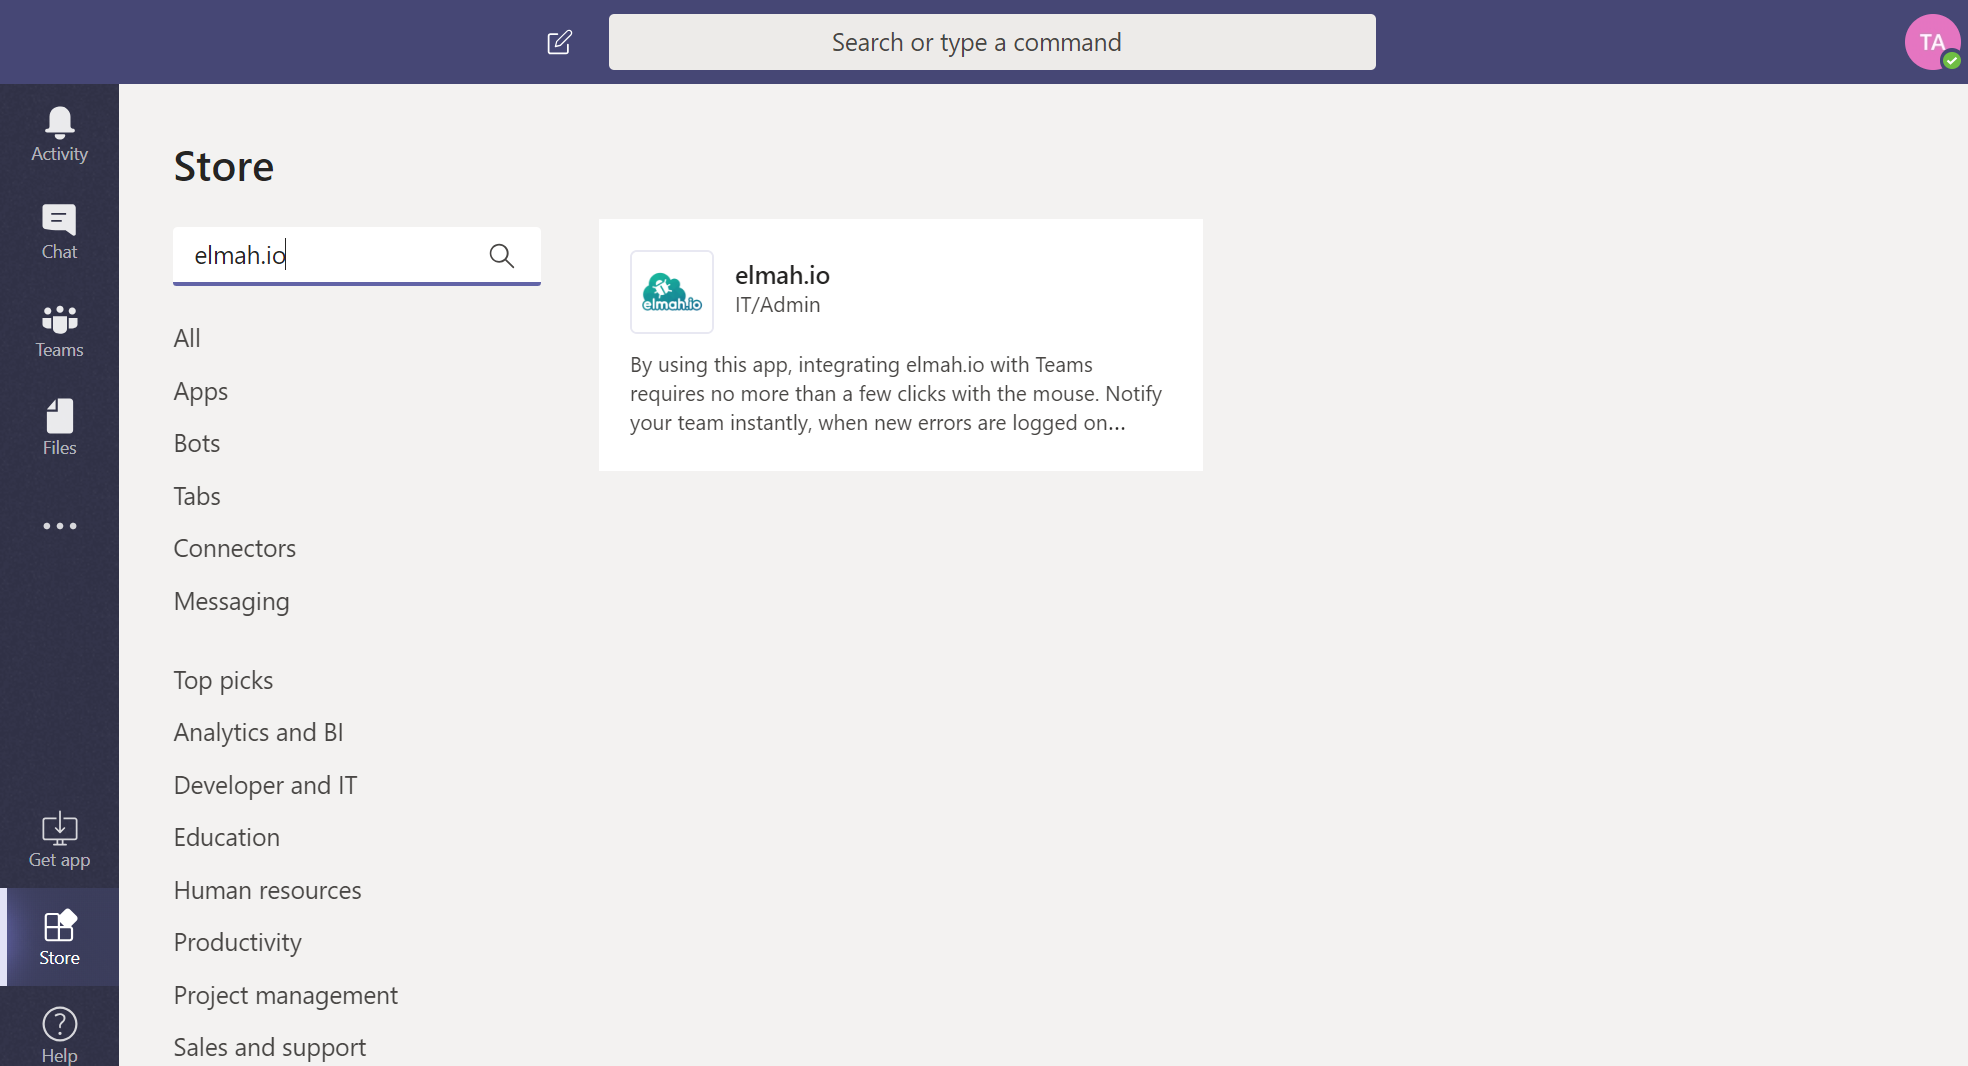
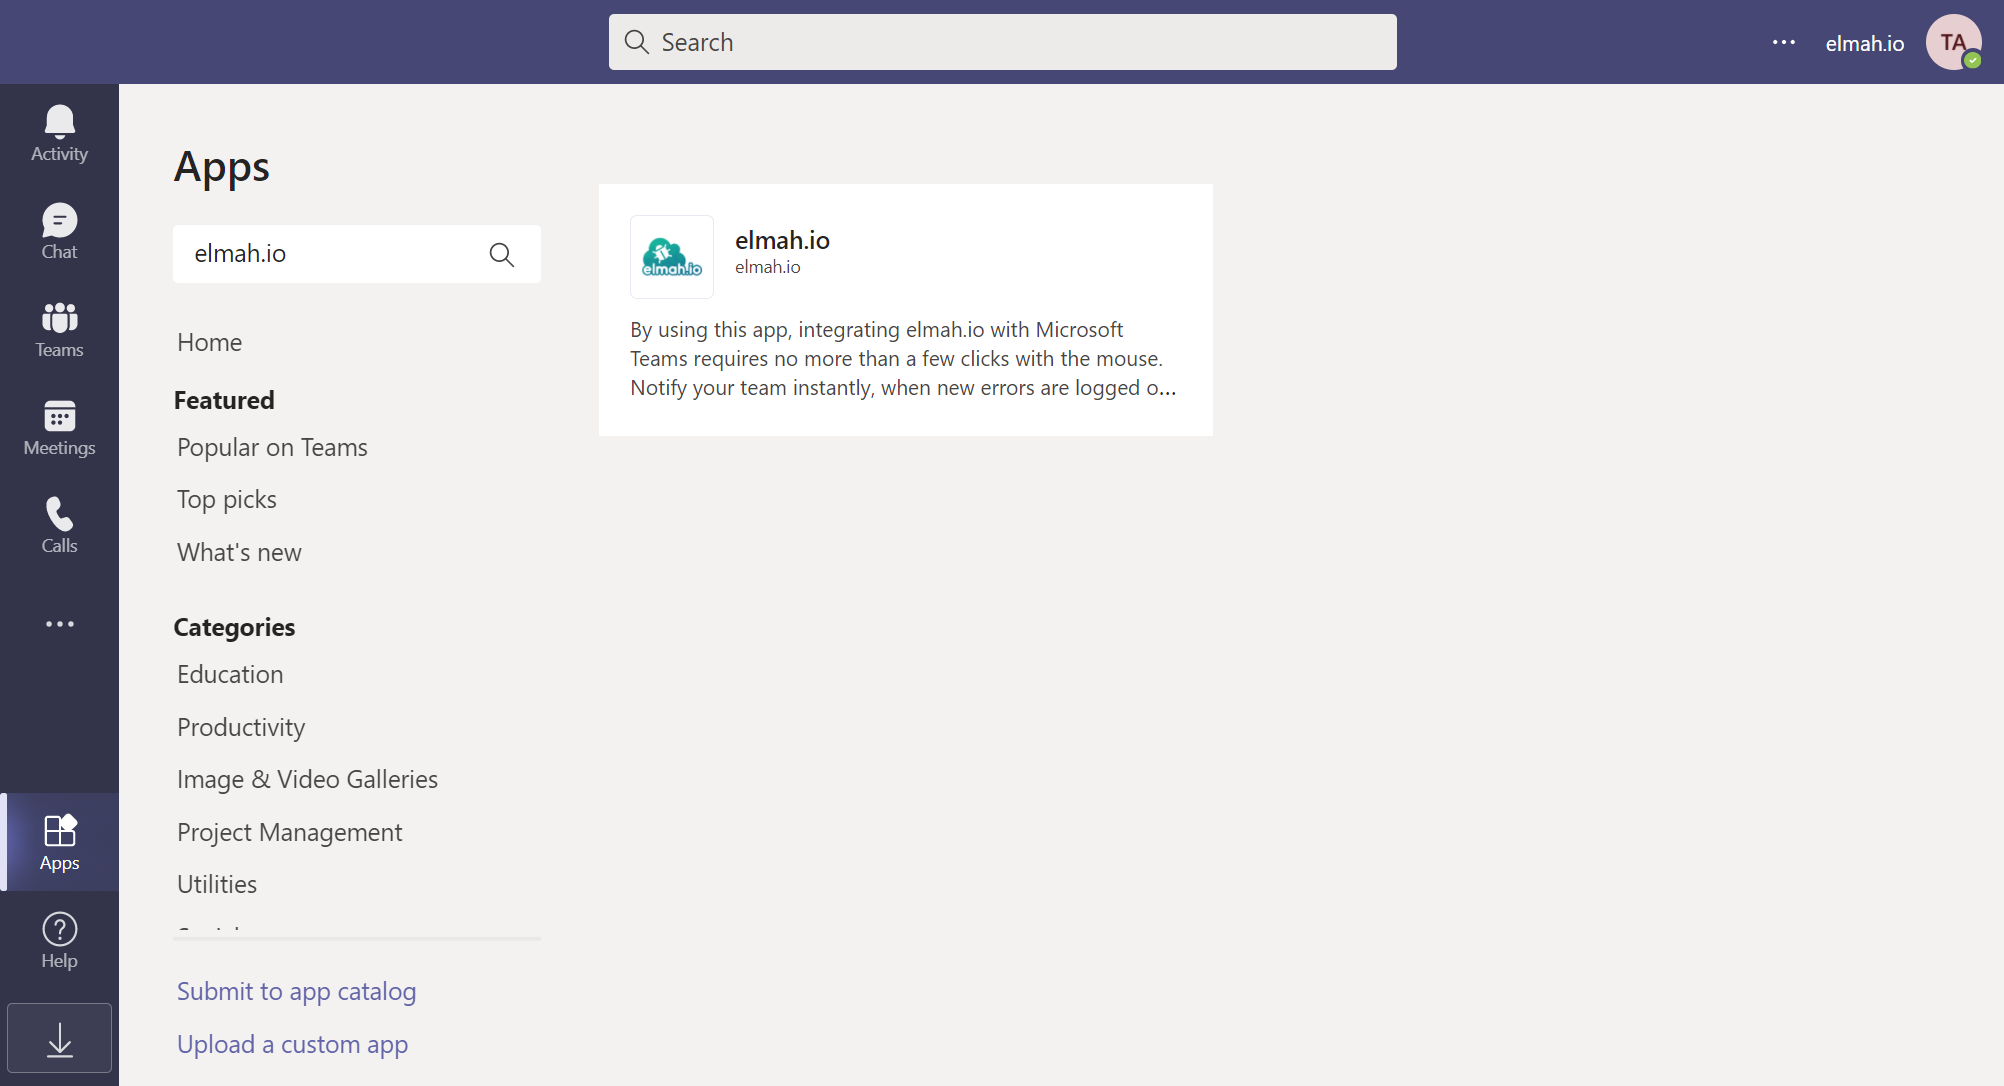
New screenshots for installing the Teams app

diff --git a/docs/elmah-io-apps-teams.md b/docs/elmah-io-apps-teams.md
@@ -5,17 +5,15 @@ description: Notify your team when new errors are introduced in production. With
 
 # Install Microsoft Teams App for elmah.io
 
-To install the integration with Microsoft Teams, go to teams and click the *Store* menu item. Search for "elmah.io" and click the app:
+To install the integration with Microsoft Teams, go to teams and click the *Apps* menu item. Search for "elmah.io" and click the app:
 
 ![Search for elmah.io](images/apps/teams/step1.png)
 
-Select your team and click the *Install* button:
+Click the *Add to a team* button. In the dropdown, search for your team and/or channel:
 
-![Add to a team](images/apps/teams/step2.png)
+![Search for elmah.io](images/apps/teams/step2.png)
 
-Select which channel you want elmah.io messages in and click the *Set up* button:
-
-![Select the channel](images/apps/teams/step3.png)
+Click the *Set up a connector* button.
 
 A new webhook URL is generated. Click the *Copy Text* button followed by the *Save* button:
 
